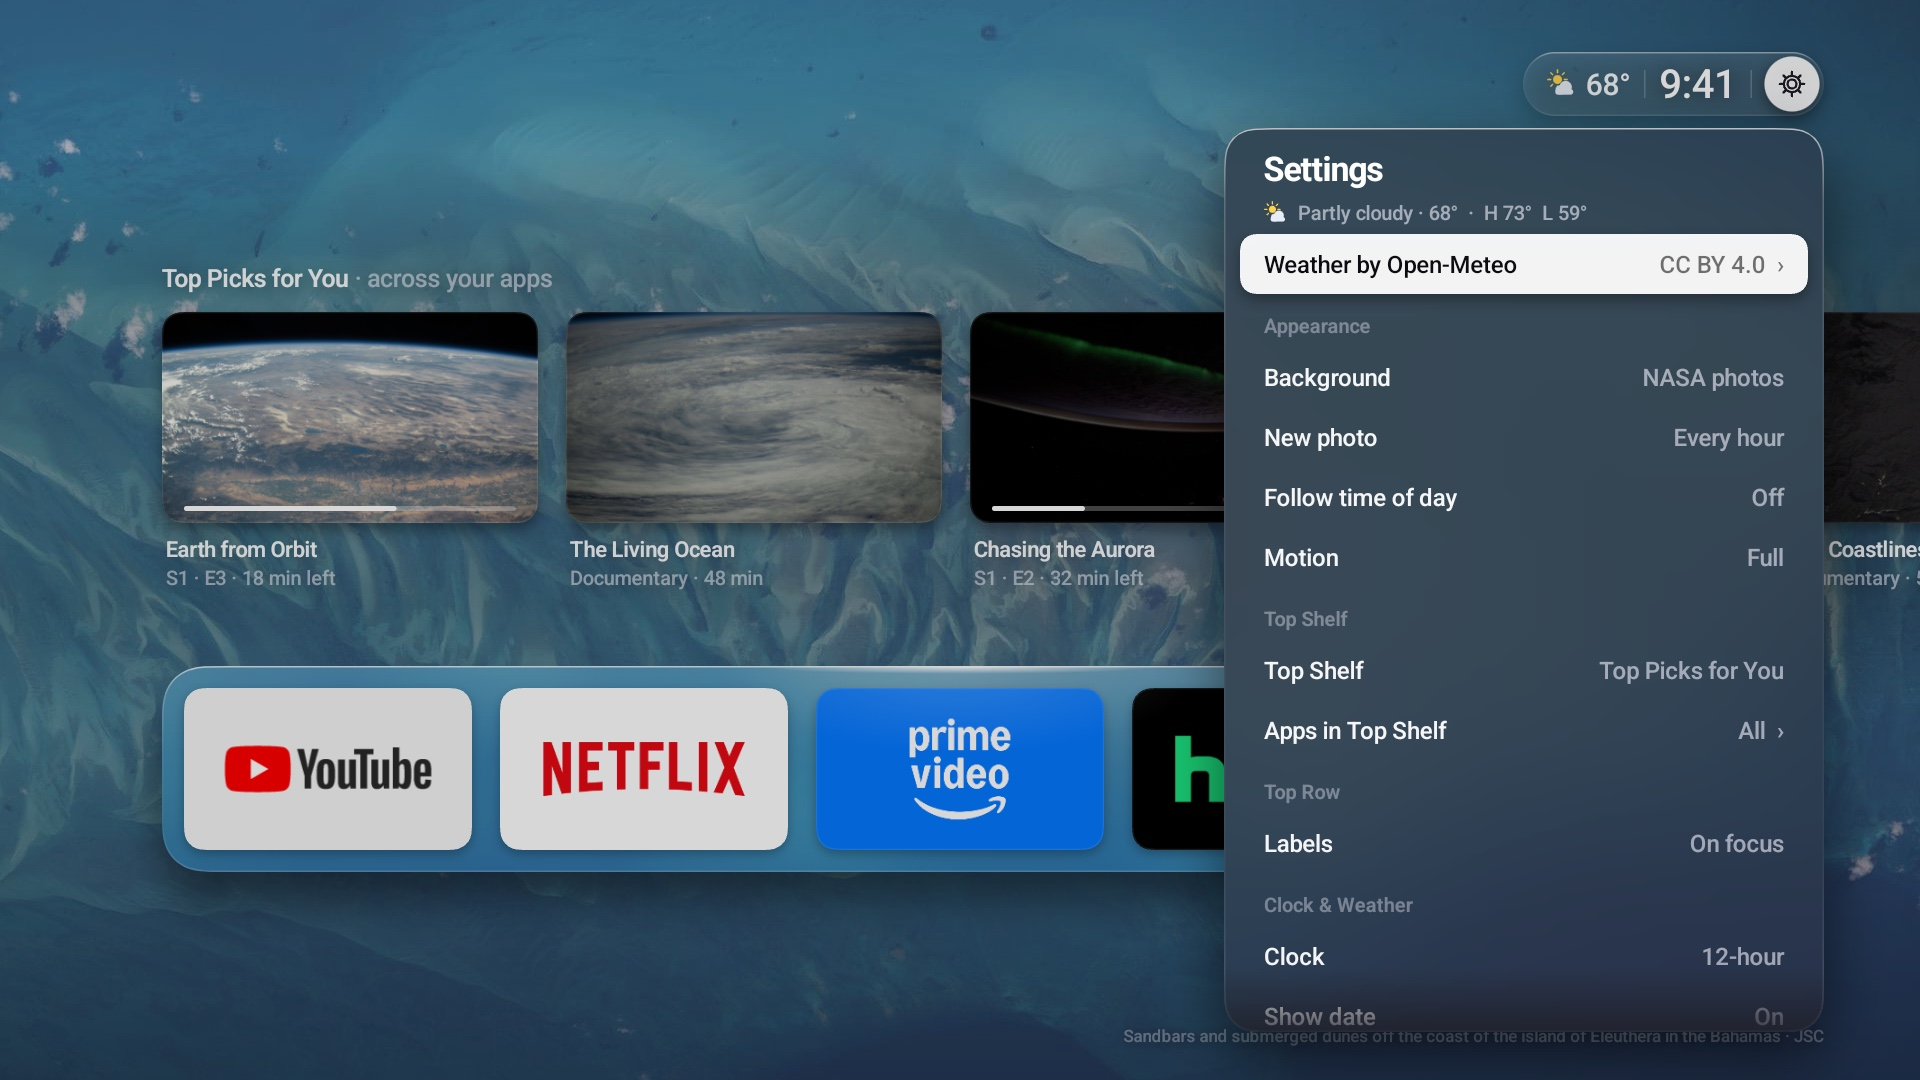
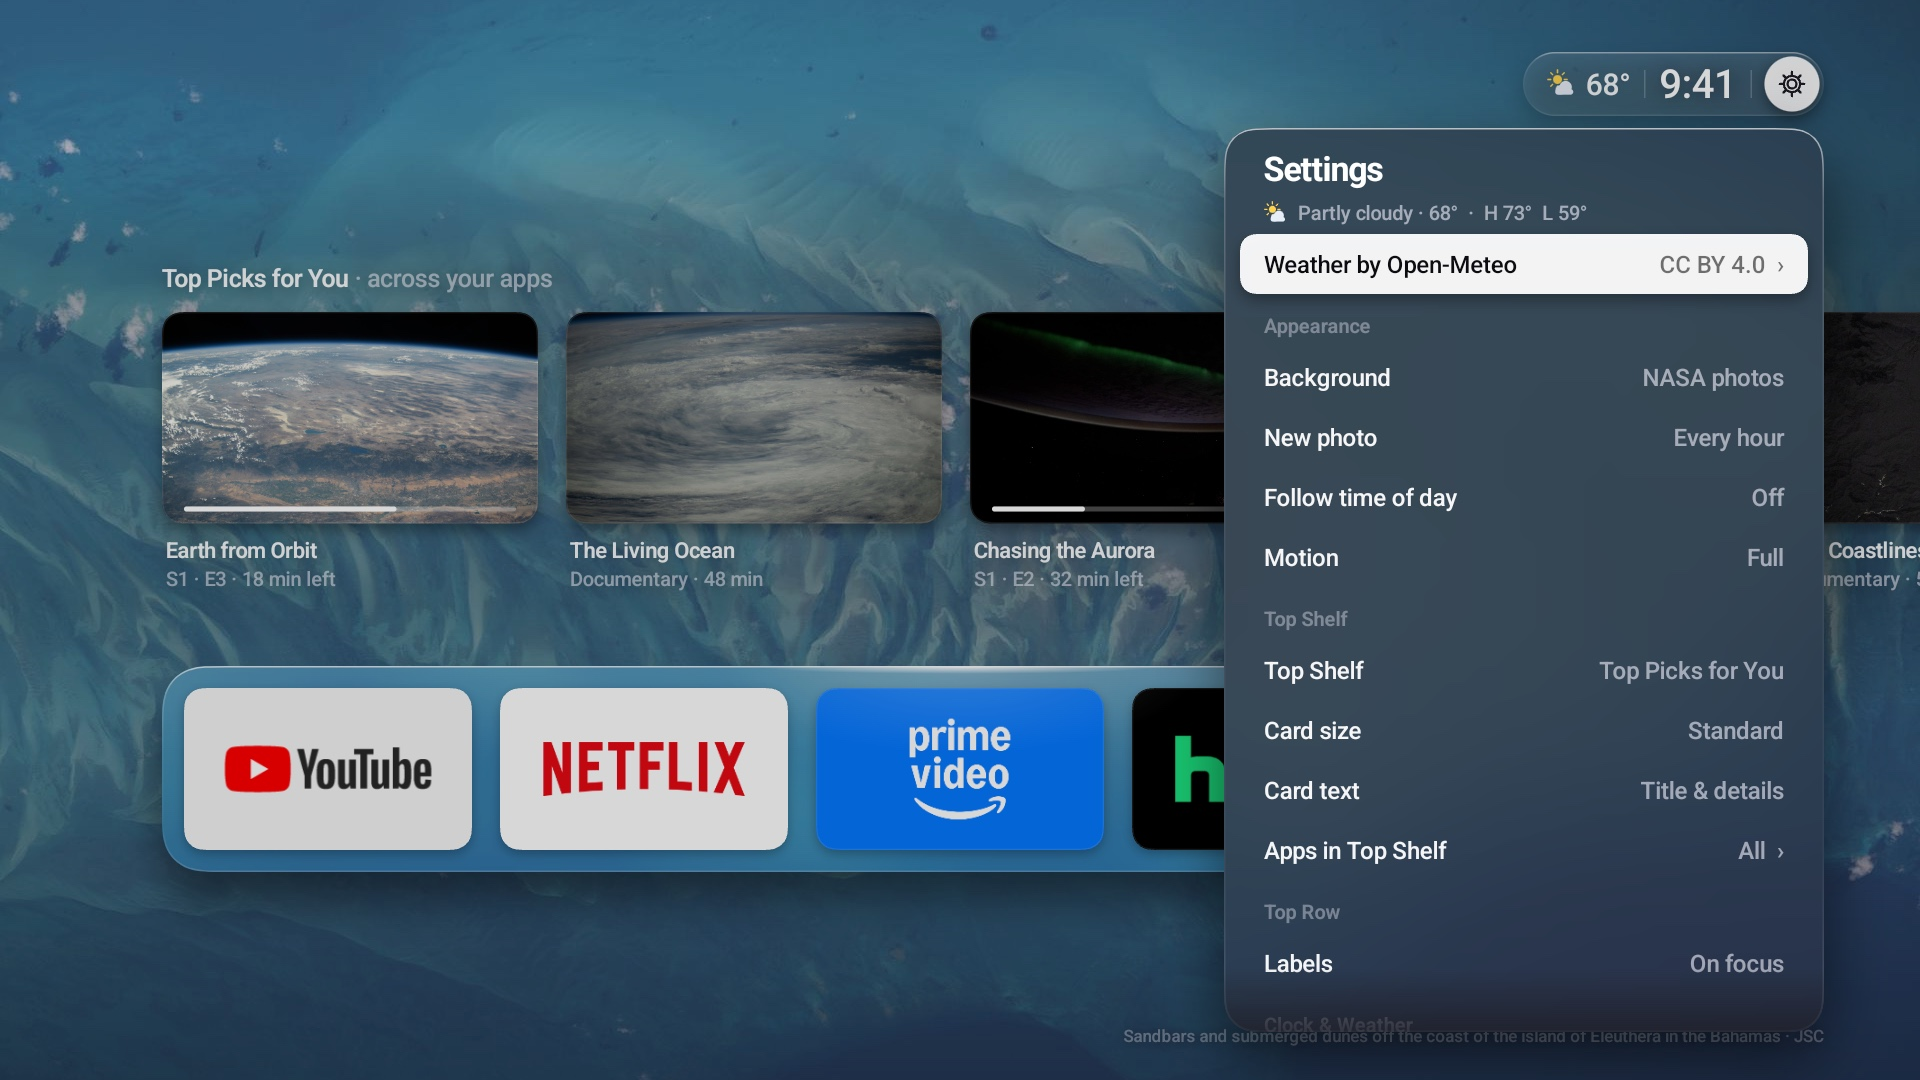
Add card size and card text options to the Top Shelf (#3)
* Add card size and card text options to the Top Shelf

Standard, Large or Compact cards, and title-and-details, title-only or no
card text. Large cards lift the shelf so their text clears the dock; the
scroll point follows how many cards fit. The dock and app tiles are unchanged.

* Add Large and Compact card screenshots and refresh Settings

diff --git a/app/src/dev/lumen/tv/HomeView.java b/app/src/dev/lumen/tv/HomeView.java
@@ -44,7 +44,8 @@ final class HomeView extends View implements Overlays.Host {
     // ---- Layout (design px) ----
     private static final float LEFT = 185, PAD = 22, GAP = 28, TILE_W = AppStore.TILE_W, TILE_H = AppStore.TILE_H;
     private static final float R_TILE = 20, R_DOCK = R_TILE + PAD, DOCK_BOTTOM = 872, ROW_MAX = 5;
-    private static final float SHELF_TOP = 262, CARD_W = 376, CARD_H = 211, CARD_TOP = SHELF_TOP + 50;
+    private static final float CARD_W_MAX = 520, CARD_H_MAX = CARD_W_MAX * 9 / 16;
+    private float cardW, cardH, shelfTop, cardTop;  // set by layoutShelf() from the Card size setting
     private static final float GRID_TOP = 1018, GRID_STEP_Y = TILE_H + 70, APPS_SHIFT = 540;
     private static final long HEARTBEAT_MS = 3400;
     private static final long HEARTBEAT_SETTLE_MS = 700;
@@ -113,6 +114,7 @@ final class HomeView extends View implements Overlays.Host {
         this.host = host;
         Ui.init(c);
         prefs = new Prefs(c);
+        layoutShelf();
         focusPrefs = c.getSharedPreferences("lumen", Context.MODE_PRIVATE);
         overlays = new Overlays(this);
         setFocusable(true);
@@ -157,7 +159,7 @@ final class HomeView extends View implements Overlays.Host {
         for (Paint p : new Paint[]{clockP, dateP, headP, headAppP, titleP, metaP, labelP, labelDimP, nameP, cardTitleP}) p.setShadowLayer(14, 0, 2, Color.argb(90, 0, 0, 0));
 
         float px = c.getResources().getDisplayMetrics().widthPixels / Ui.W * 1.07f;  // card size on screen, focus zoom included
-        art = new ArtCache(c, Math.round(CARD_W * px), Math.round(CARD_H * px), this::invalidate);
+        art = new ArtCache(c, Math.round(CARD_W_MAX * px), Math.round(CARD_H_MAX * px), this::invalidate);  // largest card size
         weather = new Weather(prefs, this::invalidate);
     }
 
@@ -527,6 +529,7 @@ final class HomeView extends View implements Overlays.Host {
         switch (key) {
             case Prefs.BACKGROUND: case Prefs.TIME_OF_DAY: case Prefs.PHOTOS: renderScene(); break;
             case Prefs.SHELF: case Prefs.SHELF_OFF: refreshShelf(); break;
+            case Prefs.CARD_SIZE: layoutShelf(); cardScroll.at(cardScrollTarget()); break;
             case Prefs.UNITS: case Prefs.PAGE_LOCATION: weather.refresh(); break;
             case Prefs.WEATHER: if (prefs.is(Prefs.WEATHER, "on")) weather.refresh(); break;
             case Prefs.CLOCK: clockMinute = -1; break;
@@ -621,7 +624,7 @@ final class HomeView extends View implements Overlays.Host {
             for (int i = 0; i < apps.rest.size(); i++) a |= ease(apps.rest.get(i), area == Area.GRID && i == gridI, dt);
         }
         if (shelf != null) {
-            cardScroll.target = Math.max(0, cardI - 3) * (CARD_W + GAP);
+            cardScroll.target = cardScrollTarget();
             a |= cardScroll.step(dt);
             for (int i = 0; i < shelf.items.size(); i++) a |= ease(shelf.items.get(i), area == Area.SHELF && i == cardI, dt);
         }
@@ -769,17 +772,32 @@ final class HomeView extends View implements Overlays.Host {
         headAppP.setAlpha(Math.round(Color.alpha(Ui.TEXT_2) * alpha));
         float left = shelfLeft();
         String suffix = shelf.app != null ? " · " + shelf.app : " · across your apps";
-        c.drawText(shelf.heading, left, SHELF_TOP + 25, headP);
-        c.drawText(suffix, left + headP.measureText(shelf.heading), SHELF_TOP + 25, headAppP);
+        c.drawText(shelf.heading, left, shelfTop + 25, headP);
+        c.drawText(suffix, left + headP.measureText(shelf.heading), shelfTop + 25, headAppP);
         // the focused card draws last, so its shadow lies over its neighbours
         int focusedIdx = area == Area.SHELF ? cardI : -1;
         for (int i = 0; i < shelf.items.size(); i++) {
             if (i == focusedIdx) continue;
-            float x = left + i * (CARD_W + GAP) - cardScroll.x;
-            if (x > Ui.W + 40 || x + CARD_W < -40) continue;
-            drawCard(c, shelf.items.get(i), x, CARD_TOP, a);
+            float x = left + i * (cardW + GAP) - cardScroll.x;
+            if (x > Ui.W + 40 || x + cardW < -40) continue;
+            drawCard(c, shelf.items.get(i), x, cardTop, a);
         }
-        if (focusedIdx >= 0) drawCard(c, shelf.items.get(focusedIdx), left + focusedIdx * (CARD_W + GAP) - cardScroll.x, CARD_TOP, a);
+        if (focusedIdx >= 0) drawCard(c, shelf.items.get(focusedIdx), left + focusedIdx * (cardW + GAP) - cardScroll.x, cardTop, a);
+    }
+
+    /** Card geometry for the Card size setting. Large cards lift the shelf so their text clears the dock. */
+    private void layoutShelf() {
+        String size = prefs.get(Prefs.CARD_SIZE);
+        cardW = "compact".equals(size) ? 300 : "large".equals(size) ? CARD_W_MAX : 376;
+        cardH = cardW * 9 / 16;
+        shelfTop = Math.min(262, DOCK_BOTTOM - TILE_H - 2 * PAD - cardH - 145);
+        cardTop = shelfTop + 50;
+    }
+
+    /** Scrolls only once focus passes the last card that fits on screen. */
+    private float cardScrollTarget() {
+        int visible = Math.max(1, (int) ((Ui.W - 96 - shelfLeft() + GAP) / (cardW + GAP)));
+        return Math.max(0, cardI - (visible - 1)) * (cardW + GAP);
     }
 
     /** The first recommendation card shares the first favorite tile's leading edge. */
@@ -791,7 +809,7 @@ final class HomeView extends View implements Overlays.Host {
 
     private void drawCard(Canvas c, ShelfStore.Item it, float x, float y, int alpha) {
         float f = focusOf(it), sc = (reduced() ? 1 : 1 + .07f * f) * heartbeatScale(f);
-        float cx = x + CARD_W / 2, cy = y + CARD_H / 2, w = CARD_W * sc, h = CARD_H * sc;
+        float cx = x + cardW / 2, cy = y + cardH / 2, w = cardW * sc, h = cardH * sc;
         r.set(cx - w / 2, cy - h / 2, cx + w / 2, cy + h / 2);
         Shadow.draw(c, r, R_TILE * sc, Ui.lerp(12, 20, f), Ui.lerp(8, 20, f), Ui.lerp(.38f, .58f, f) * alpha / 255f, bmp);
         Bitmap b = art.get(it.art);
@@ -816,13 +834,14 @@ final class HomeView extends View implements Overlays.Host {
             fill.setColor(Color.argb(alpha, 255, 255, 255));
             rrect(c, bl, by - 5, bl + (br - bl) * it.progress, by, 3, fill);
         }
-        float ty = y + CARD_H + 34 + 8 * f;
+        if (prefs.is(Prefs.CARD_TEXT, "none")) return;
+        float ty = y + cardH + 34 + 8 * f;
         titleP.setAlpha(Math.round(Color.alpha(Ui.TEXT) * alpha / 255f));
-        c.drawText(ellipsize(it.title, titleP, CARD_W - 8), x + 4, ty, titleP);
-        if (it.line != null && !it.line.isEmpty()) {
+        c.drawText(ellipsize(it.title, titleP, cardW - 8), x + 4, ty, titleP);
+        if (prefs.is(Prefs.CARD_TEXT, "details") && it.line != null && !it.line.isEmpty()) {
             metaP.setColor(Ui.mix(Ui.TEXT_2, Ui.TEXT, f * .5f));
             metaP.setAlpha(Math.round(Color.alpha(metaP.getColor()) * alpha / 255f));
-            c.drawText(ellipsize(it.line, metaP, CARD_W - 8), x + 4, ty + 28, metaP);
+            c.drawText(ellipsize(it.line, metaP, cardW - 8), x + 4, ty + 28, metaP);
         }
     }
 

diff --git a/app/src/dev/lumen/tv/Prefs.java b/app/src/dev/lumen/tv/Prefs.java
@@ -11,6 +11,7 @@ import java.util.Set;
 final class Prefs {
     static final String BACKGROUND = "bg", TIME_OF_DAY = "tod", MOTION = "motion", SHELF = "shelf", LABELS = "labels",
             CLOCK = "clock", DATE = "date", WEATHER = "weather", UNITS = "units", PHOTOS = "photos", SAVER = "saver";
+    static final String CARD_SIZE = "cardSize", CARD_TEXT = "cardText";
     static final String HIDDEN = "hidden", SHELF_OFF = "shelfOff";
 
     /** One row of the settings panel. Pages open a list; choices cycle through values. */
@@ -35,6 +36,8 @@ final class Prefs {
         new Option("Appearance", TIME_OF_DAY, "Follow time of day", new String[]{"on", "off"}, new String[]{"On", "Off"}),
         new Option("Appearance", MOTION, "Motion", new String[]{"full", "reduced"}, new String[]{"Full", "Reduced"}),
         new Option("Top Shelf", SHELF, "Top Shelf", new String[]{"rich", "upnext", "off"}, new String[]{"Top Picks for You", "Continue Watching", "Off"}),
+        new Option("Top Shelf", CARD_SIZE, "Card size", new String[]{"standard", "large", "compact"}, new String[]{"Standard", "Large", "Compact"}),
+        new Option("Top Shelf", CARD_TEXT, "Card text", new String[]{"details", "title", "none"}, new String[]{"Title & details", "Title only", "None"}),
         new Option("Top Shelf", PAGE_SHELF_APPS, "Apps in Top Shelf", null, null),
         new Option("Top Row", LABELS, "Labels", new String[]{"focus", "always", "never"}, new String[]{"On focus", "Always", "Never"}),
         new Option("Clock & Weather", CLOCK, "Clock", new String[]{"system", "12", "24", "off"}, new String[]{"System", "12-hour", "24-hour", "Off"}),
@@ -64,6 +67,7 @@ final class Prefs {
 
     /** Whether a row applies right now (photo frequency only matters for a NASA photo background). */
     boolean relevant(Option o) {
+        if (CARD_SIZE.equals(o.key) || CARD_TEXT.equals(o.key)) return !is(SHELF, "off");
         if (PHOTOS.equals(o.key)) return is(BACKGROUND, "nasa");
         return true;
     }

diff --git a/tools/screenshots/ScreenshotCapture.java b/tools/screenshots/ScreenshotCapture.java
@@ -92,6 +92,9 @@ public final class ScreenshotCapture extends Instrumentation {
             preference(Prefs.SHELF, "rich");
             key(KeyEvent.KEYCODE_DPAD_UP);
             capture("top-picks");
+            preference(Prefs.CARD_SIZE, "large"); capture("large-cards");
+            preference(Prefs.CARD_SIZE, "compact"); preference(Prefs.CARD_TEXT, "title"); capture("compact-cards");
+            preference(Prefs.CARD_SIZE, "standard"); preference(Prefs.CARD_TEXT, "details");
             runOnMainSync(view::reset);
             key(KeyEvent.KEYCODE_DPAD_DOWN);
             capture("all-apps");
@@ -116,7 +119,7 @@ public final class ScreenshotCapture extends Instrumentation {
             SystemClock.sleep(2000);
             captureScreen("screensaver");
             result.putString("output", destination.getAbsolutePath());
-            result.putString("stream", "Captured 14 native Lumen screenshots with public sample content.\n");
+            result.putString("stream", "Captured 16 native Lumen screenshots with public sample content.\n");
             finish(Activity.RESULT_OK, result);
         } catch (Throwable error) {
             result.putString("stream", android.util.Log.getStackTraceString(error));

diff --git a/docs/design/DESIGN.md b/docs/design/DESIGN.md
@@ -211,6 +211,8 @@ Selected rows in menus are near-white pills (94%) with dark text, as on a clean 
 | | Motion | Full / Reduced (fades only; focus shown with an outline) | **Full** |
 | Top Shelf | Top Shelf | Top Picks for You / Continue Watching / Off | **Top Picks for You** |
 | | Cinematic artwork | On / Off (Off keeps the scene behind the hero text) | **On** |
+| | Card size | Standard (376×211) / Large (520×293, shelf lifts to clear the dock) / Compact (300×169) | **Standard** |
+| | Card text | Title & details / Title only / None | **Title & details** |
 | | Apps in Top Shelf | Per-app toggles | all |
 | Top Row | Tile size | Small / Medium / Large | **Medium** |
 | | Labels | On focus / Always / Never | **On focus** |
@@ -277,6 +279,7 @@ an interactive design reference; planned cinematic mode is not shown as a shippe
 | ![All Apps](screens/all-apps.jpg) All Apps | ![Screensaver](screens/screensaver.jpg) Screensaver with a sample NASA Earth photo |
 | ![Forest by day](screens/forest-day.jpg) Forest by day | ![Dunes at dawn](screens/dunes-dawn.jpg) Dunes at dawn, Up Next |
 | ![Coast by day](screens/coast-day.jpg) Coast by day | ![Quiet](screens/quiet.jpg) Quiet: Black, Top Shelf off |
+| ![Large cards](screens/large-cards.jpg) Top Shelf with Large cards | ![Compact cards](screens/compact-cards.jpg) Compact cards, title only |
 
 ![About settings](screens/about.jpg) About: creator credit and a wrapped privacy note inside the panel.
 

diff --git a/tools/screenshots/README.md b/tools/screenshots/README.md
@@ -32,7 +32,7 @@ adb -s emulator-5554 shell settings put secure user_setup_complete 1
 tools/screenshots/capture.sh emulator-5554
 ```
 
-The script refuses physical TVs, checks restored focus, and captures fourteen native PNGs in `out/capture/screenshots/`. Optional second argument: another output directory. SDK paths follow `ANDROID_HOME`/`JAVA_HOME`; `ADB` and `LUMEN_CAPTURE_ASSETS` can override the tool and artwork cache.
+The script refuses physical TVs, checks restored focus, and captures sixteen native PNGs in `out/capture/screenshots/`. Optional second argument: another output directory. SDK paths follow `ANDROID_HOME`/`JAVA_HOME`; `ADB` and `LUMEN_CAPTURE_ASSETS` can override the tool and artwork cache.
 
 The artwork manifest pins public source URLs and SHA-256 hashes. YouTube uses its bundled TV banner; other sample banners use publishers' icons. Recommendations and progress are fictional. NASA fixtures seed the normal photo cache; production decoding, cropping, shading and motion still apply. Home uses a sample clock/weather report. The saver captures its production view, not DreamService lifecycle behavior. These are not app subscriptions or performance benchmarks.
 

diff --git a/CHANGELOG.md b/CHANGELOG.md
@@ -9,6 +9,7 @@
 - Settled focus on Home return and wrapped settings notes.
 - Native emulator screenshot fixtures using public sample content.
 - MIT licensing, source notices, privacy/contribution/security documentation and CI checks.
+- Top Shelf view options: Standard, Large or Compact cards, and title-and-details, title-only or no card text.
 - Weather attribution links in Settings; removed the unused Unsplash integration and API-key embedding.
 
 Known limitations: cinematic mode, selectable tile sizes and bundled Inter remain planned. Device vendors
